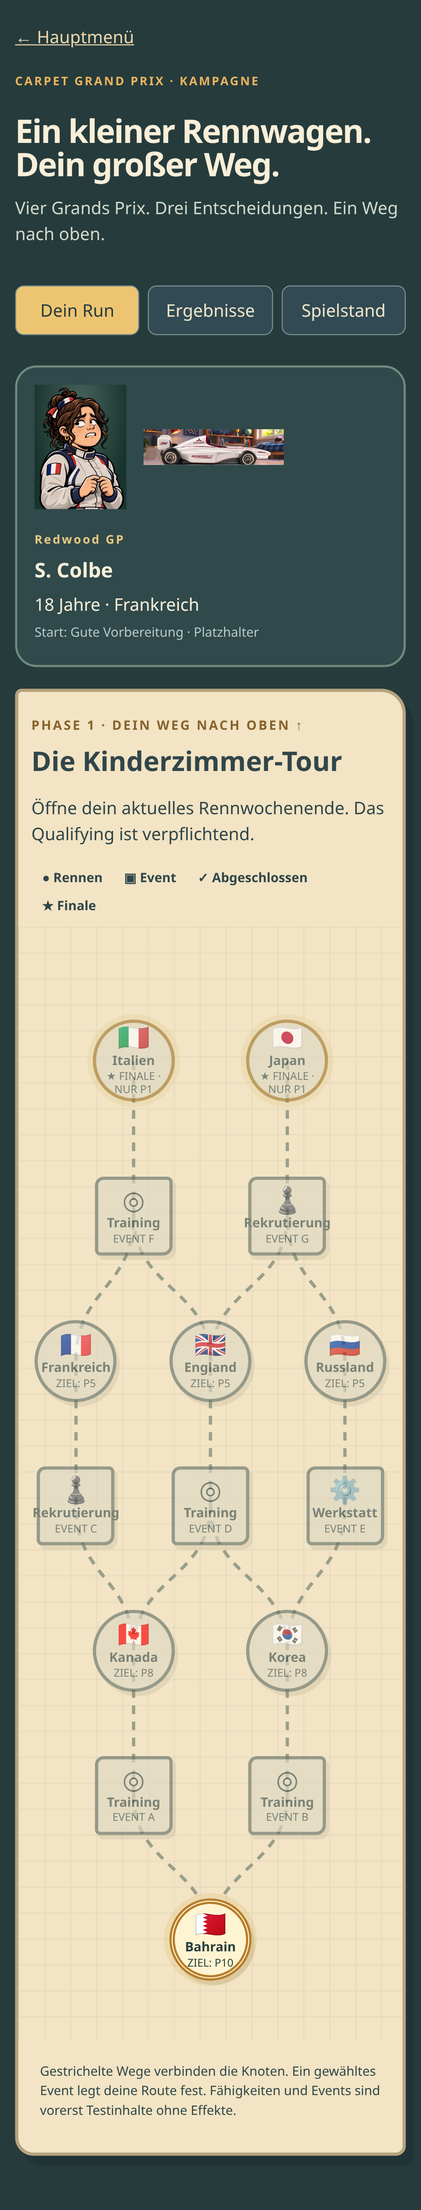
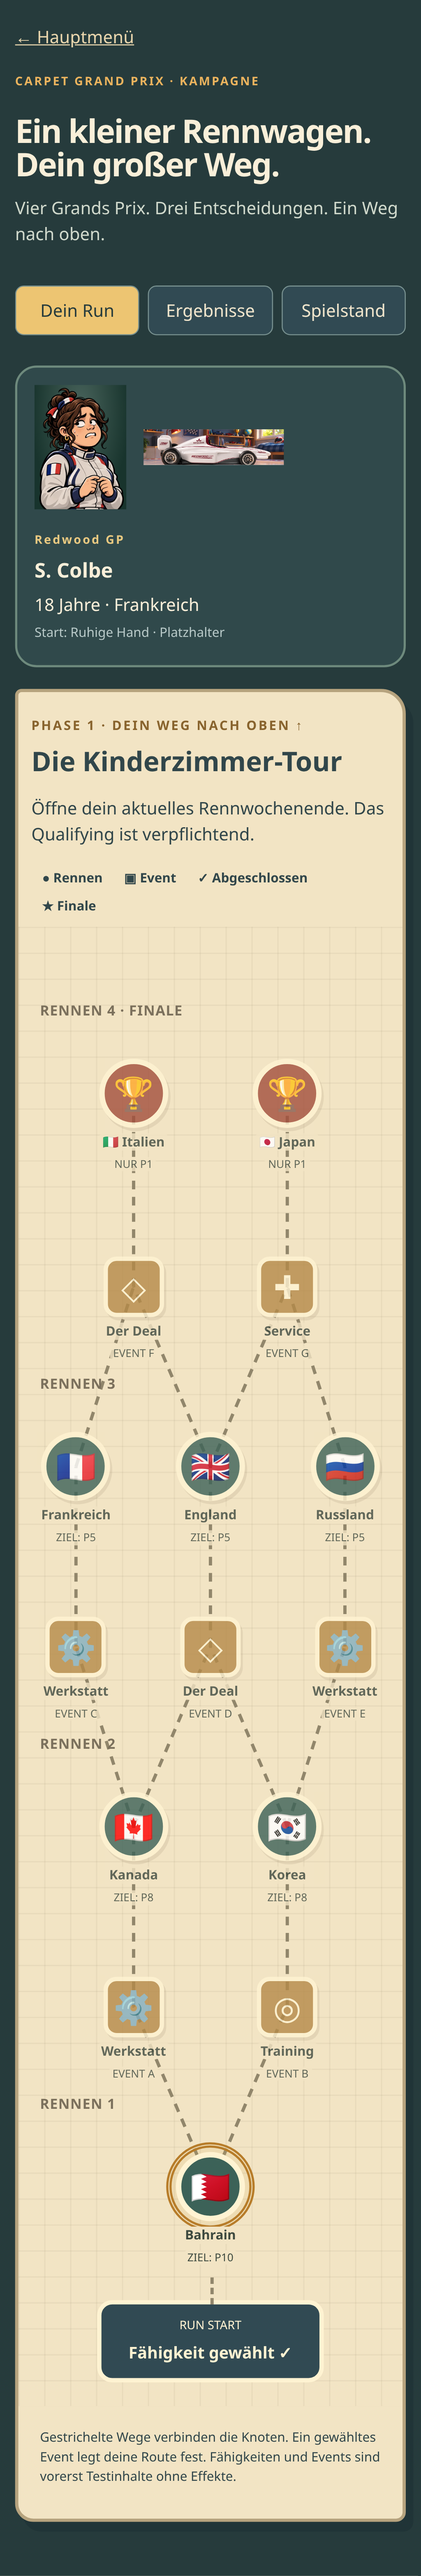
Align run map artwork with supplied paper-map reference

Changed region(s): [[0.0312, 0.0, 0.9688, 0.9959]]

diff --git a/styles/run.css b/styles/run.css
@@ -18,20 +18,31 @@
 .run-paper { color:var(--run-ink); background:var(--run-paper); border:3px solid #b6a37e; border-radius:6px 23px 9px 17px; box-shadow:7px 9px 0 #182b2f66; overflow:hidden; }
 .run-map-heading { padding:20px 22px 6px; } .run-map-heading h2 { margin:4px 0 12px; font-size:clamp(25px,4vw,38px); } .run-map-heading p { margin:6px 0; }
 .run-map-heading .eyebrow { color:#88632d; font-size:12px; } .run-map-legend { display:flex; flex-wrap:wrap; gap:8px 20px; padding:10px 22px; font-size:12px; font-weight:700; }
-.run-map-scroll { overflow:visible; outline-offset:-4px; }
-.run-map-board { position:relative; min-width:280px; height:1030px; background:linear-gradient(#78898114 1px,transparent 1px),linear-gradient(90deg,#78898114 1px,transparent 1px); background-size:24px 24px; }
+.run-map-scroll { overflow:visible; outline-offset:-4px; padding-bottom:88px; background:linear-gradient(#8a806419 1px,transparent 1px),linear-gradient(90deg,#8a806419 1px,transparent 1px); background-size:24px 24px; }
+.run-map-board { position:relative; min-width:280px; height:1280px; }
 .run-map-lines { position:absolute; inset:0; width:100%; height:100%; pointer-events:none; }
-.run-map-lines path { fill:none; stroke:#9a9e8b; stroke-width:3; stroke-dasharray:8 7; vector-effect:non-scaling-stroke; }
-.run-map-lines path.is-chosen { stroke:#4b7964; stroke-width:4; } .run-map-lines path.is-pruned { opacity:.28; }
-.run-node { position:absolute; transform:translate(-50%,-50%); width:clamp(72px,11vw,100px); display:flex; flex-direction:column; align-items:center; justify-content:center; gap:2px; padding:7px 4px; min-height:88px; border:3px solid #67746b; color:#3e514e; background:#e1dbc5; font-size:12px; text-align:center; line-height:1.15; box-shadow:3px 4px 0 #9c927640; opacity:1; }
-.run-node.is-race { border-radius:50%; width:clamp(76px,12vw,106px); height:clamp(76px,12vw,106px); min-height:76px; }
-.run-node.is-event { border-radius:8px 5px 9px 5px; min-height:68px; }
-.run-node strong { font-size:12px; } .run-node .run-node-icon { font-size:24px; line-height:1; } .run-node small { font-size:10px; }
-.run-node[data-state=locked] { opacity:.66; background:#ded8c3; } .run-node[data-state=unreachable] { opacity:.29; filter:grayscale(1); }
-.run-node[data-state=reachable],.run-node[data-state=current] { background:#fff4d1; border-color:#b77c29; color:#283e3c; box-shadow:0 0 0 5px #d7ad5933,3px 4px 0 #9c927640; }
-.run-node[data-state=current] { border-style:double; border-width:5px; }
-.run-node[data-state=completed] { background:#c9ddbf; border-color:#5d7d62; color:#335442; }
-.run-node.is-final { border-color:#a47b31; box-shadow:0 0 0 5px #d3b45933; } .run-node[data-state=won] { background:#f9d578; border-color:#8e6527; color:#4b381b; box-shadow:0 0 0 7px #f5d18477; }
+.run-map-lines path { fill:none; stroke:#91866b; stroke-width:3; stroke-dasharray:8 7; vector-effect:non-scaling-stroke; }
+.run-map-lines path.is-chosen { stroke:#3f715d; stroke-width:4; } .run-map-lines path.is-pruned { opacity:.28; }
+.run-map-level { position:absolute; left:20px; margin:0; color:#7b705c; font-size:13px; font-weight:800; letter-spacing:.045em; pointer-events:none; }
+.run-node,.run-node:hover { position:absolute; transform:translate(-50%,-50%); width:clamp(64px,11vw,100px); height:clamp(64px,11vw,100px); min-height:0; display:grid; place-items:center; padding:0; border:0; border-radius:50%; color:#3d493f; background:transparent; font-size:12px; text-align:center; line-height:1.15; box-shadow:none; opacity:1; }
+.run-node.is-event { width:clamp(56px,8vw,72px); height:clamp(56px,8vw,72px); border-radius:12px; }
+.run-node-icon { display:grid; place-items:center; width:100%; height:100%; box-sizing:border-box; border:5px solid #fff3d2; border-radius:inherit; background:#3c6258; color:#fff3d2; font-size:clamp(30px,5vw,44px); line-height:1; box-shadow:2px 3px 0 #8b76572b; }
+.run-node.is-event .run-node-icon { background:#b58a49; border-width:4px; }
+.run-node strong,.run-node small { position:absolute; left:50%; transform:translateX(-50%); white-space:nowrap; background:var(--run-paper); padding:1px 3px; border-radius:3px; }
+.run-node strong { top:calc(100% + 5px); font-size:clamp(12px,1.8vw,18px); }
+.run-node small { top:calc(100% + 27px); font-size:10px; }
+.run-node .run-node-status { position:absolute; top:-4px; right:-6px; display:grid; place-items:center; width:25px; height:25px; border:2px solid #fff3d2; border-radius:50%; background:#456f54; color:#fff3d2; font-size:17px; font-weight:800; }
+.run-node[data-state=locked] { opacity:.8; } .run-node[data-state=unreachable] { opacity:.28; filter:grayscale(1); }
+.run-node[data-state=reachable] .run-node-icon,.run-node[data-state=current] .run-node-icon { outline:3px solid #b77c29; outline-offset:4px; box-shadow:0 0 0 9px #d7ad5926; }
+.run-node[data-state=current] .run-node-icon { outline-style:double; outline-width:5px; }
+.run-node[data-state=completed] .run-node-icon { background:#668365; }
+.run-node.is-final .run-node-icon { background:#a34f3c; }
+.run-node[data-state=won] .run-node-icon { background:#a87129; outline:4px solid #d6a144; outline-offset:4px; }
+.run-node[data-state=failed] .run-node-icon,.run-node[data-state=failed] .run-node-status { background:#984d40; }
+.run-node[aria-current=step][data-state=completed] .run-node-icon { outline:3px solid #b77c29; outline-offset:4px; }
+.run-map-start { position:absolute; top:calc(100% + 28px); left:50%; transform:translate(-50%,-50%); display:flex; flex-direction:column; align-items:center; gap:5px; width:210px; padding:12px; border:4px solid #fff3d2; border-radius:14px; background:#314a53; color:#fff3d2; }
+.run-map-start small { font-size:11px; } .run-map-start strong { font-size:15px; }
+.run-map-start::before { content:""; position:absolute; bottom:100%; left:50%; height:25px; border-left:3px dashed #91866b; }
 .run-map-foot { padding:8px 20px 18px; font-size:12px; line-height:1.5; }
 .run-outcome[data-status=failed] { border-color:#d67c66; } .run-outcome[data-status=won] { border-color:#e8c875; background:#3e5146; }
 .run-summary-route { display:flex; flex-wrap:wrap; padding:0; gap:8px; list-style:none; } .run-summary-route li { background:#1e3336; padding:8px 10px; border-radius:7px; }
@@ -42,7 +53,3 @@
 @media(prefers-reduced-motion:reduce) { .run-map-scroll { scroll-behavior:auto; } }
 
 @media(max-width:700px) { #runDrivers { display:flex; overflow-x:auto; scroll-snap-type:x mandatory; padding-bottom:12px; } #runDrivers .campaign-driver-card { flex:0 0 88%; scroll-snap-align:start; } }
-
-.run-node[data-state=failed] { background:#efd0b9; border-color:#9c4a3d; color:#80392d; }
-
-.run-node[aria-current=step][data-state=completed] { outline:3px solid #b77c29; outline-offset:4px; }

diff --git a/src/ui/run-map-ui.js b/src/ui/run-map-ui.js
@@ -8,12 +8,18 @@
     for (const [from, to] of M.phase.edges) {
       const a = M.get(from), b = M.get(to), path = document.createElementNS(svg.namespaceURI, "path");
       path.dataset.from = from; path.dataset.to = to;
-      path.setAttribute("d", `M${a.x * 10},${a.y * 10} C${a.x * 10},${(a.y + b.y) * 5} ${b.x * 10},${(a.y + b.y) * 5} ${b.x * 10},${b.y * 10}`);
+      path.setAttribute("d", `M${a.x * 10},${a.y * 10} L${b.x * 10},${b.y * 10}`);
       const index = run.route.indexOf(from);
       path.classList.toggle("is-chosen", index >= 0 && run.route[index + 1] === to);
       path.classList.toggle("is-pruned", A.RogueliteRun.nodeState(run, to) === "unreachable"); svg.append(path);
     }
     board.append(svg);
+    const levels = [...new Set(M.phase.nodes.filter(node => node.kind === "race").map(node => node.level))].sort((a, b) => b - a);
+    for (const level of levels) {
+      const race = M.phase.nodes.find(node => node.kind === "race" && node.level === level);
+      const label = n("p", "RENNEN " + level + (race.final ? " · FINALE" : ""), "run-map-level");
+      label.style.top = `calc(${race.y}% - 86px)`; board.append(label);
+    }
     for (const node of M.phase.nodes) {
       const state = A.RogueliteRun.nodeState(run, node.id), button = n("button", undefined, "run-node is-" + node.kind);
       button.type = "button"; button.dataset.node = node.id; button.dataset.state = state;
@@ -23,11 +29,13 @@
       if (node.id === run.phase.currentNode) button.setAttribute("aria-current", "step");
       const type = node.kind === "event" ? M.eventTypes.find(t => t.id === run.eventContents[node.id].typeId) : null;
       const title = type?.name || CGPArcadeData.tracks[node.trackId].name;
-      button.append(n("span", node.kind === "race" ? node.flag : type.symbol, "run-node-icon"), n("strong", title), n("small", node.kind === "race" ? node.final ? "★ FINALE · NUR P1" : "ZIEL: P" + node.cutoff : "EVENT " + node.letter));
-      if (["completed", "won", "failed"].includes(state)) button.append(n("small", state === "won" ? "★ GEWONNEN" : state === "failed" ? "ZIEL VERFEHLT" : "✓ ERLEDIGT"));
+      button.append(n("span", node.kind === "race" ? node.final ? "🏆" : node.flag : type.symbol, "run-node-icon"), n("strong", node.final ? node.flag + " " + title : title), n("small", node.kind === "race" ? node.final ? "NUR P1" : "ZIEL: P" + node.cutoff : "EVENT " + node.letter));
+      if (["completed", "won", "failed"].includes(state)) button.append(n("span", state === "won" ? "★" : state === "failed" ? "×" : "✓", "run-node-status"));
       button.setAttribute("aria-label", `${title}${node.kind === "event" ? " · Event " + node.letter : " · Rennen " + node.level} · ${available ? "erreichbar" : state === "completed" ? "abgeschlossen" : state === "won" ? "gewonnen" : "gesperrt"}`);
       button.onclick = () => onEnter(node.id); board.append(button);
     }
+    const start = n("div", undefined, "run-map-start");
+    start.append(n("small", "RUN START"), n("strong", "Fähigkeit gewählt ✓")); board.append(start);
   }
   function reveal(board, id) {
     requestAnimationFrame(() => {

diff --git a/run.html b/run.html
@@ -4,7 +4,7 @@
   <meta charset="utf-8"><meta name="viewport" content="width=device-width, initial-scale=1, viewport-fit=cover">
   <meta name="theme-color" content="#263b3c"><title>Carpet Grand Prix · Dein Run</title>
   <link rel="stylesheet" href="./styles/arcade.css"><link rel="stylesheet" href="./styles/campaign.css?v=hud-2">
-  <link rel="stylesheet" href="./styles/racing-hud.css?v=run-1"><link rel="stylesheet" href="./styles/run.css?v=run-1">
+  <link rel="stylesheet" href="./styles/racing-hud.css?v=run-1"><link rel="stylesheet" href="./styles/run.css?v=run-map-2">
 </head>
 <body class="run-page">
 <main id="runApp">
@@ -52,5 +52,5 @@
 <script src="./src/persistence/pov-checkpoint.js?v=career-1"></script><script src="./src/data/campaign-config.js?v=campaign-1"></script>
 <script src="./src/persistence/campaign-v1.js?v=hud-2"></script><script src="./src/championship/campaign.js?v=hud-2"></script><script src="./src/persistence/campaign-store.js?v=hud-2"></script>
 <script src="./src/data/run-map.js?v=run-1"></script><script src="./src/championship/roguelite-run.js?v=run-1"></script><script src="./src/persistence/run-store.js?v=run-1"></script>
-<script src="./src/ui/campaign-view.js?v=hud-2"></script><script src="./src/ui/result-details.js?v=run-1"></script><script src="./src/ui/run-map-ui.js?v=run-1"></script><script src="./src/ui/run-launch.js?v=run-1"></script>
+<script src="./src/ui/campaign-view.js?v=hud-2"></script><script src="./src/ui/result-details.js?v=run-1"></script><script src="./src/ui/run-map-ui.js?v=run-map-2"></script><script src="./src/ui/run-launch.js?v=run-1"></script>
 </body></html>

diff --git a/docs/ROGUELITE_RUN_SYSTEM.md b/docs/ROGUELITE_RUN_SYSTEM.md
@@ -34,6 +34,13 @@ beim Öffnen in den sichtbaren Bereich gescrollt; die Karte bleibt auch auf klei
 Smartphones ohne horizontales Seitenscrolling lesbar. Die Bereichsnavigation
 bleibt beim Scrollen erreichbar.
 
+Die nachgereichte Kartenreferenz bestimmt die Darstellung: große Symbole mit
+außenstehenden Ländernamen, gerade gestrichelte Wege, vier beschriftete
+Rennebenen, Pokale an den Finalknoten und eine Startmarkierung unter Bahrain.
+Die Startmarkierung bestätigt die bereits gewählte Fähigkeit und ist kein
+zusätzlicher Graphknoten. Event-Typen bleiben entgegen den Fragezeichen der
+Vorlage sichtbar, damit die vorgegebene Event-Vorschau erhalten bleibt.
+
 | Rennebene | Knoten | Mindestplatzierung |
 | --- | --- | --- |
 | 1 | Bahrain | P10 |
